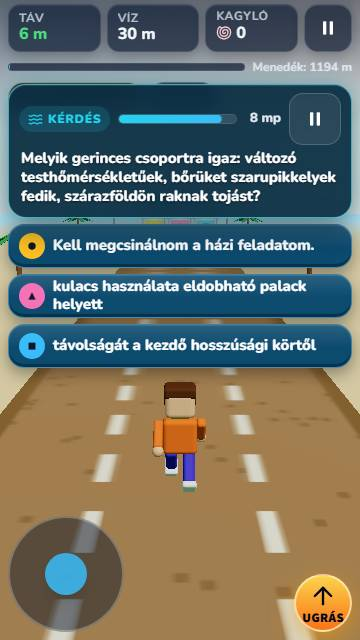
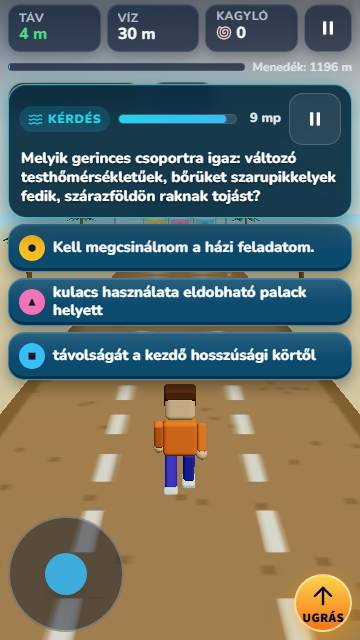
fix(jatekok): J1a – álló lista mód: a gombok a közös mobil mérő M2 küszöbén (≥ 48 px), a saját e2e is 48 px-et vár
CI 44124385498: a 360x640-es mobil mérő M2 pontja a 44 px-es lista-gombokat szabálysértőnek mérte. Most min. 48 px; a lista
továbbra sem takarja a futót és nem fedi a tárcsát (ÚK3 e2e 4/4, mobil mérő Szökőár 32/32, helyben).

diff --git a/source/tests/tsunami-play.spec.ts b/source/tests/tsunami-play.spec.ts
@@ -577,7 +577,7 @@ for (const viewport of [
   test.describe(`${viewport.width}x${viewport.height}: álló lista mód — nem takarja a futót, nem fedi a tárcsát (újra-review #483 ÚK3)`, () => {
     test.use({ viewport, hasTouch: true, isMobile: true });
 
-    test("leghosszabb kérdés + leghosszabb válaszok: a lista és a tárcsa nem metszi egymást, a futó szabad, nincs vízszintes görgetés, gomb ≥ 44 px, a tárcsa ívén koppintás nem válasz", async ({ page }) => {
+    test("leghosszabb kérdés + leghosszabb válaszok: a lista és a tárcsa nem metszi egymást, a futó szabad, nincs vízszintes görgetés, gomb ≥ 48 px, a tárcsa ívén koppintás nem válasz", async ({ page }) => {
       await page.goto("/games/tsunami-english?seed=29&difficulty=easy");
       await page.getByTestId("button-tsunami-start").tap();
       await expect(page.getByTestId("tsunami-touch-controls")).toBeVisible();
@@ -605,7 +605,8 @@ for (const viewport of [
       for (const o of m.options) {
         const hit = Math.min(o.r, m.joy.r) - Math.max(o.l, m.joy.l) > 0 && Math.min(o.b, m.joy.b) - Math.max(o.t, m.joy.t) > 0;
         expect(hit, `(a) a válaszgomb (${Math.round(o.t)}–${Math.round(o.b)}) és a tárcsa (${Math.round(m.joy.t)}–${Math.round(m.joy.b)}) téglalapja nem metszi egymást`).toBe(false);
-        expect(o.h, "(d) a válaszgomb mért magassága ≥ 44 px").toBeGreaterThanOrEqual(44);
+        // A közös mobil mérő M2 küszöbe (game-mobile-quality.ts: ≥ 48 px) — a korábbi 44 px-es állítás szigorítva.
+        expect(o.h, "(d) a válaszgomb mért magassága ≥ 48 px").toBeGreaterThanOrEqual(48);
       }
       expect(m.covered, "(b) a futó feje / mellkasa nincs takarva").toEqual([false, false]);
       expect(m.overflowX, "(c) nincs vízszintes görgetés lista módban").toBeLessThanOrEqual(1);

diff --git a/source/client/src/pages/TsunamiEscapeEnglish.tsx b/source/client/src/pages/TsunamiEscapeEnglish.tsx
@@ -2250,11 +2250,11 @@ const TSUNAMI_CSS = `
    lóg a tárcsa találati területére (a tárcsa marad). Fekvőben a közös elrendezés (display: block, oldalsó oszlopok) érvényes. */
 .ts-gates[data-long="true"] .play-question[data-mode="buttons"] { justify-content: flex-start; }
 /* Alacsony álló képernyőn (mérve: 360x640, a leghosszabb kérdés + válaszok) a lista tömörebb, hogy a futó feje fölött érjen
-   véget; a gomb érintési magassága ≥ 44 px marad. */
+   véget; a gomb érintési magassága ≥ 48 px marad (a közös mobil mérő M2 küszöbe, game-mobile-quality.ts). */
 @media (orientation: portrait) and (max-height: 720px) {
   .ts-gates[data-long="true"] .play-question[data-mode="buttons"] { gap: 6px; }
   .ts-gates[data-long="true"] .play-question[data-mode="buttons"] .play-question-options { gap: 6px; }
-  .ts-gates[data-long="true"] .play-question[data-mode="buttons"] .play-question-option { min-height: 44px; padding: 3px 10px; gap: 8px; font-size: 15px; }
+  .ts-gates[data-long="true"] .play-question[data-mode="buttons"] .play-question-option { min-height: 48px; padding: 3px 10px; gap: 8px; font-size: 15px; }
   .ts-gates[data-long="true"] .play-question[data-mode="buttons"] .play-question-label { line-height: 1.15; }
   .ts-gates[data-long="true"] .play-question[data-mode="buttons"] .play-question-key { width: 26px; height: 26px; }
 }
